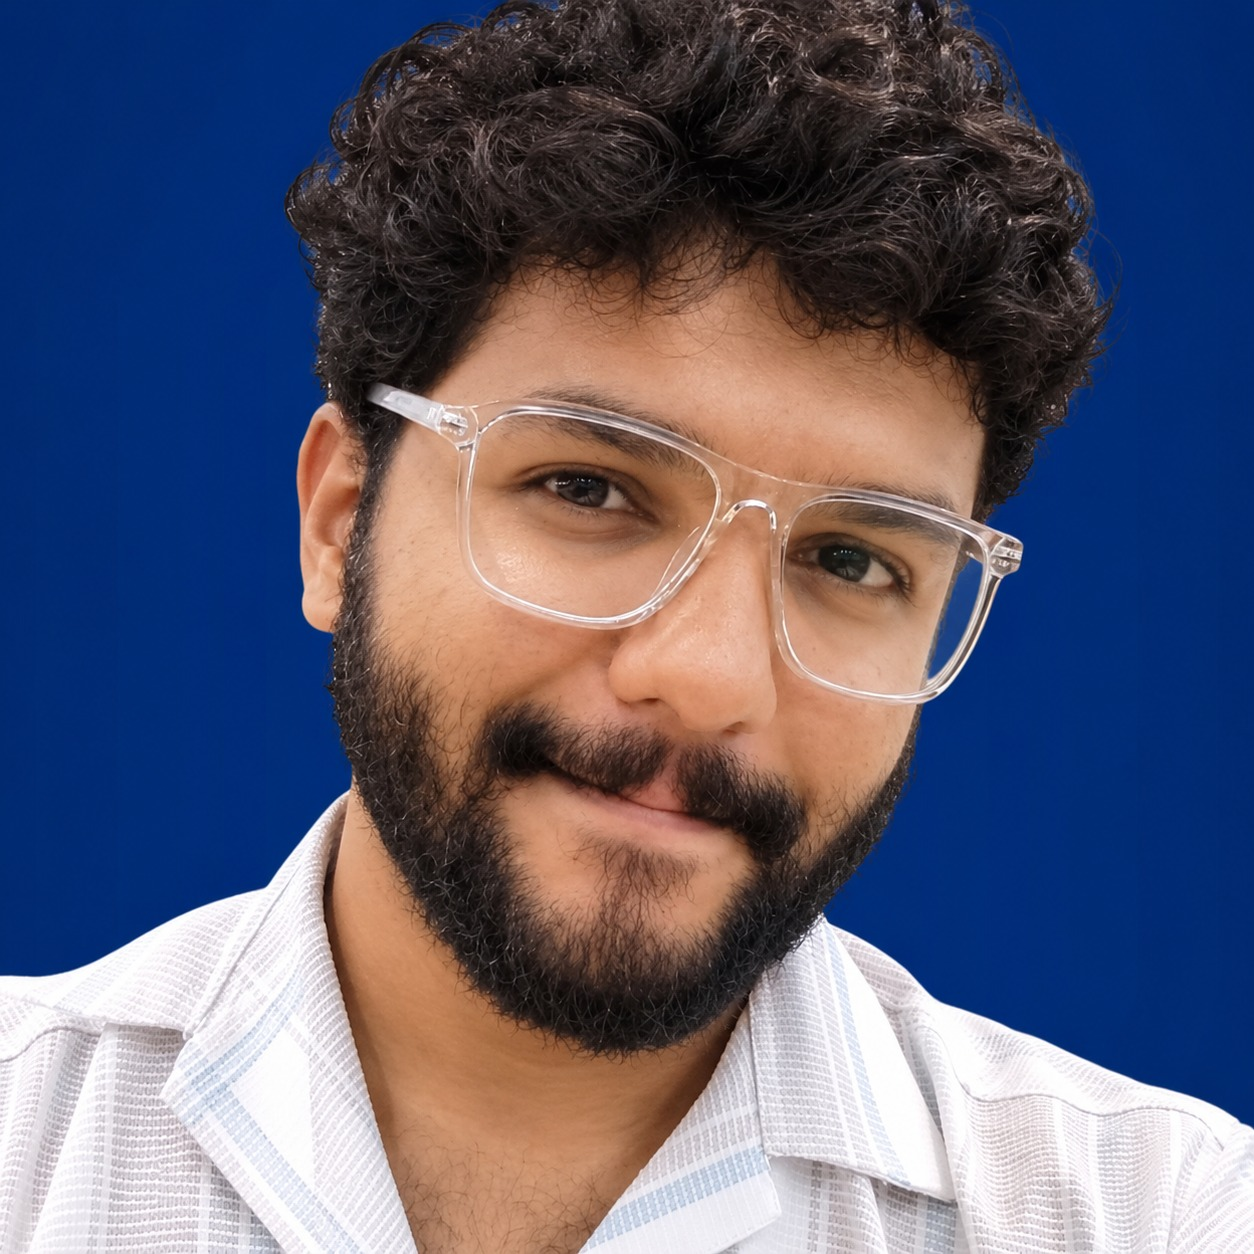
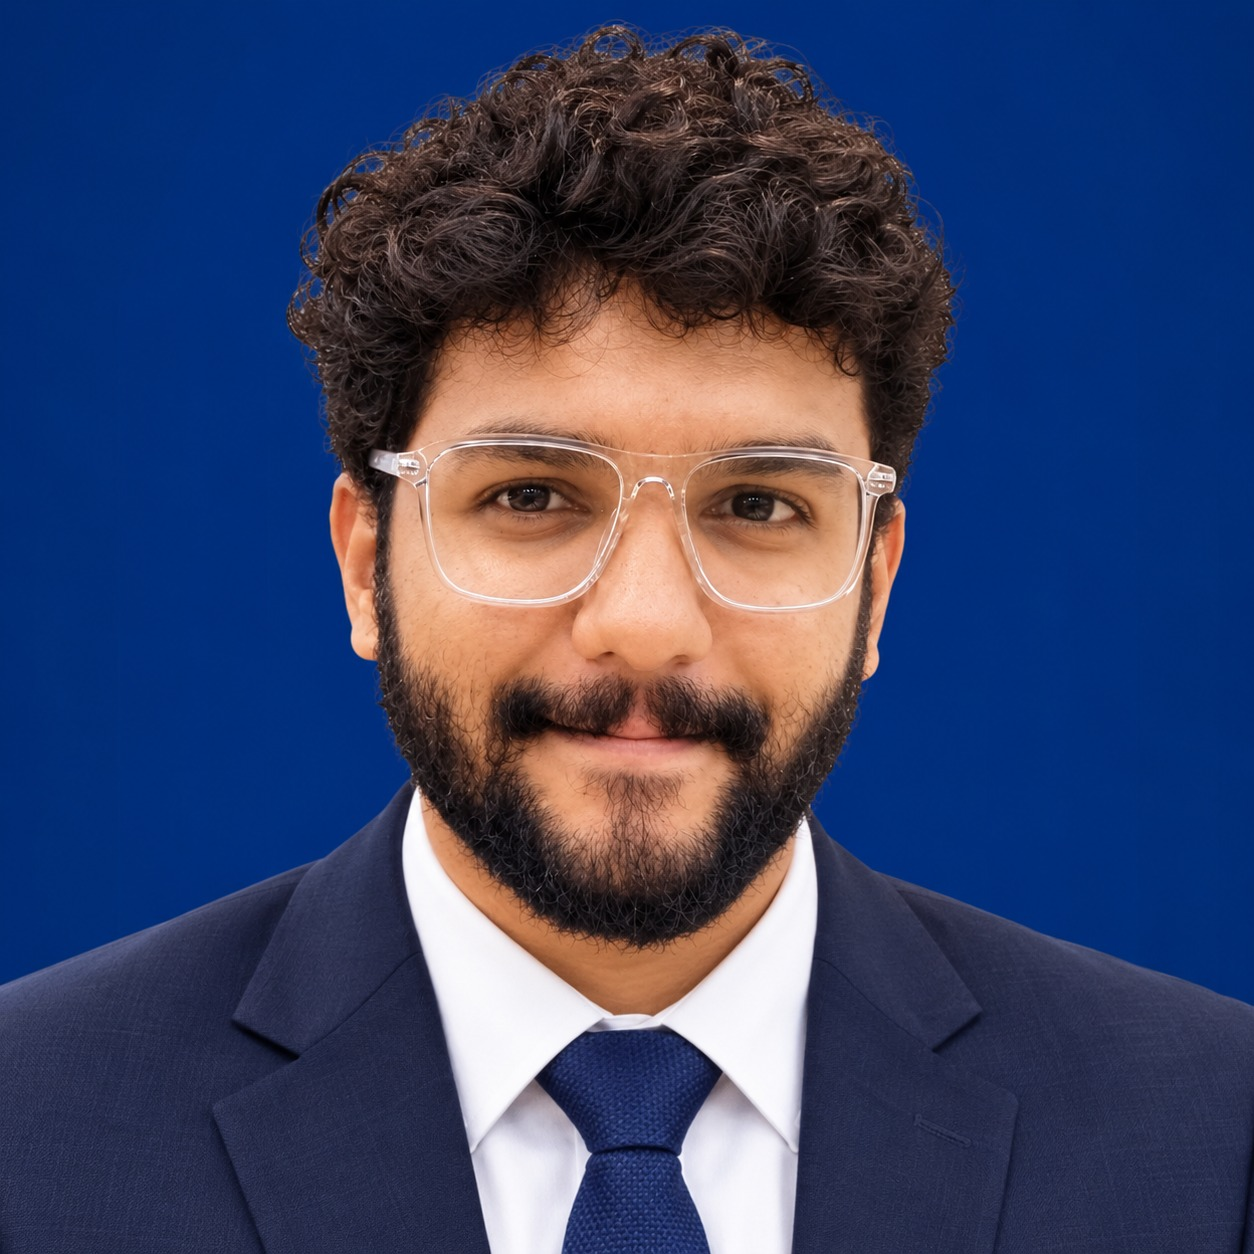
Add files via upload

diff --git a/directors.html b/directors.html
@@ -509,11 +509,11 @@ header{margin-top:0!important;top:0!important}
   </div>
 </div>
 <div class="director-card premium-card texture-paper rounded-2xl border border-gold/20 shadow-soft overflow-hidden reveal">
-  <img src="director-johan-josh-joy.jpg" alt="Johan Josh Joy" loading="lazy" class="director-card__photo"><span class="verified-badge" title="Verified director"><svg viewBox="0 0 24 24" fill="none" stroke="currentColor" stroke-width="3" stroke-linecap="round" stroke-linejoin="round"><path d="M5 13l4 4L19 7"/></svg><span data-en="Verified" data-ml="പരിശോധിച്ചു">Verified</span></span>
+  <img src="director-jayden-gejo.jpg" alt="Jayden Gejo" loading="lazy" class="director-card__photo"><span class="verified-badge" title="Verified director"><svg viewBox="0 0 24 24" fill="none" stroke="currentColor" stroke-width="3" stroke-linecap="round" stroke-linejoin="round"><path d="M5 13l4 4L19 7"/></svg><span data-en="Verified" data-ml="പരിശോധിച്ചു">Verified</span></span>
   <div class="p-4 sm:p-5">
     <div class="font-sans text-[9.5px] tracking-[0.16em] uppercase text-taupe font-semibold mb-1.5">Asia–Pacific Diocesan Coordinator</div>
-    <h4 class="font-serif font-normal text-[16px] sm:text-[17px] text-ink dark:text-ivory mb-2.5 leading-snug">Johan Josh Joy</h4>
-    <div class="flex flex-col gap-0.5 font-sans text-[10.5px] text-body/55 dark:text-ivory/45 leading-[1.5]"><span><span class="text-taupe font-semibold uppercase tracking-wide text-[9.5px]">Home Parish&nbsp;</span>Mallassery St. Mary’s Orthodox Church</span><span><span class="text-taupe font-semibold uppercase tracking-wide text-[9.5px]">Parish&nbsp;</span>Sydney St. Thomas Orthodox Cathedral</span></div>
+    <h4 class="font-serif font-normal text-[16px] sm:text-[17px] text-ink dark:text-ivory mb-2.5 leading-snug">Jayden Gejo</h4>
+    <div class="flex flex-col gap-0.5 font-sans text-[10.5px] text-body/55 dark:text-ivory/45 leading-[1.5]"><span><span class="text-taupe font-semibold uppercase tracking-wide text-[9.5px]">Home Parish&nbsp;</span>Karikkad St. Mary’s Orthodox Church</span><span><span class="text-taupe font-semibold uppercase tracking-wide text-[9.5px]">Parish&nbsp;</span>Melbourne St. Gregorios Orthodox Church (Clayton)</span></div>
   </div>
 </div>
 <div class="director-card premium-card texture-paper rounded-2xl border border-gold/20 shadow-soft overflow-hidden reveal">
@@ -849,6 +849,14 @@ header{margin-top:0!important;top:0!important}
   </div>
 </div>
 <div class="director-card premium-card texture-paper rounded-2xl border border-gold/20 shadow-soft overflow-hidden reveal">
+  <img src="director-abel-koshy-binsu.jpg" alt="Abel Koshy Binsu" loading="lazy" class="director-card__photo"><span class="verified-badge" title="Verified director"><svg viewBox="0 0 24 24" fill="none" stroke="currentColor" stroke-width="3" stroke-linecap="round" stroke-linejoin="round"><path d="M5 13l4 4L19 7"/></svg><span data-en="Verified" data-ml="പരിശോധിച്ചു">Verified</span></span>
+  <div class="p-4 sm:p-5">
+    <div class="font-sans text-[9.5px] tracking-[0.16em] uppercase text-taupe font-semibold mb-1.5">Kuwait Zonal Coordinator</div>
+    <h4 class="font-serif font-normal text-[16px] sm:text-[17px] text-ink dark:text-ivory mb-2.5 leading-snug">Abel Koshy Binsu</h4>
+    <div class="flex flex-col gap-0.5 font-sans text-[10.5px] text-body/55 dark:text-ivory/45 leading-[1.5]"><span><span class="text-taupe font-semibold uppercase tracking-wide text-[9.5px]">Diocese&nbsp;</span>Calcutta</span><span><span class="text-taupe font-semibold uppercase tracking-wide text-[9.5px]">Home Parish&nbsp;</span>Thumpamon St. Mary’s Orthodox Cathedral</span><span><span class="text-taupe font-semibold uppercase tracking-wide text-[9.5px]">Parish&nbsp;</span>Kuwait City St. Gregorios Orthodox Church</span></div>
+  </div>
+</div>
+<div class="director-card premium-card texture-paper rounded-2xl border border-gold/20 shadow-soft overflow-hidden reveal">
   <img src="director-ethan-koottumatha.jpg" alt="Ethan Koottumatha" loading="lazy" class="director-card__photo"><span class="verified-badge" title="Verified director"><svg viewBox="0 0 24 24" fill="none" stroke="currentColor" stroke-width="3" stroke-linecap="round" stroke-linejoin="round"><path d="M5 13l4 4L19 7"/></svg><span data-en="Verified" data-ml="പരിശോധിച്ചു">Verified</span></span>
   <div class="p-4 sm:p-5">
     <div class="font-sans text-[9.5px] tracking-[0.16em] uppercase text-taupe font-semibold mb-1.5">Long Island Zonal Coordinator</div>
@@ -878,14 +886,6 @@ header{margin-top:0!important;top:0!important}
     <div class="font-sans text-[9.5px] tracking-[0.16em] uppercase text-taupe font-semibold mb-1.5">Mamalassery Zonal Coordinator</div>
     <h4 class="font-serif font-normal text-[16px] sm:text-[17px] text-ink dark:text-ivory mb-2.5 leading-snug">Abshaalom Thomas Vadakkanedath</h4>
     <div class="flex flex-col gap-0.5 font-sans text-[10.5px] text-body/55 dark:text-ivory/45 leading-[1.5]"><span><span class="text-taupe font-semibold uppercase tracking-wide text-[9.5px]">Diocese&nbsp;</span>Kandanad East</span><span><span class="text-taupe font-semibold uppercase tracking-wide text-[9.5px]">Parish&nbsp;</span>Vettithara St. Michael Orthodox Church</span></div>
-  </div>
-</div>
-<div class="director-card premium-card texture-paper rounded-2xl border border-gold/20 shadow-soft overflow-hidden reveal">
-  <img src="director-jayden-gejo.jpg" alt="Jayden Gejo" loading="lazy" class="director-card__photo"><span class="verified-badge" title="Verified director"><svg viewBox="0 0 24 24" fill="none" stroke="currentColor" stroke-width="3" stroke-linecap="round" stroke-linejoin="round"><path d="M5 13l4 4L19 7"/></svg><span data-en="Verified" data-ml="പരിശോധിച്ചു">Verified</span></span>
-  <div class="p-4 sm:p-5">
-    <div class="font-sans text-[9.5px] tracking-[0.16em] uppercase text-taupe font-semibold mb-1.5">Melbourne Zonal Coordinator</div>
-    <h4 class="font-serif font-normal text-[16px] sm:text-[17px] text-ink dark:text-ivory mb-2.5 leading-snug">Jayden Gejo</h4>
-    <div class="flex flex-col gap-0.5 font-sans text-[10.5px] text-body/55 dark:text-ivory/45 leading-[1.5]"><span><span class="text-taupe font-semibold uppercase tracking-wide text-[9.5px]">Diocese&nbsp;</span>Asia–Pacific</span><span><span class="text-taupe font-semibold uppercase tracking-wide text-[9.5px]">Home Parish&nbsp;</span>Karikkad St. Mary’s Orthodox Church</span><span><span class="text-taupe font-semibold uppercase tracking-wide text-[9.5px]">Parish&nbsp;</span>Melbourne St. Gregorios Orthodox Church (Clayton)</span></div>
   </div>
 </div>
 <div class="director-card premium-card texture-paper rounded-2xl border border-gold/20 shadow-soft overflow-hidden reveal">
@@ -985,11 +985,27 @@ header{margin-top:0!important;top:0!important}
   </div>
 </div>
 <div class="director-card premium-card texture-paper rounded-2xl border border-gold/20 shadow-soft overflow-hidden reveal">
+  <img src="director-febi-george-varghese.jpg" alt="Febi George Varghese" loading="lazy" class="director-card__photo"><span class="verified-badge" title="Verified director"><svg viewBox="0 0 24 24" fill="none" stroke="currentColor" stroke-width="3" stroke-linecap="round" stroke-linejoin="round"><path d="M5 13l4 4L19 7"/></svg><span data-en="Verified" data-ml="പരിശോധിച്ചു">Verified</span></span>
+  <div class="p-4 sm:p-5">
+    <div class="font-sans text-[9.5px] tracking-[0.16em] uppercase text-taupe font-semibold mb-1.5">Thalavady Zonal Coordinator</div>
+    <h4 class="font-serif font-normal text-[16px] sm:text-[17px] text-ink dark:text-ivory mb-2.5 leading-snug">Febi George Varghese</h4>
+    <div class="flex flex-col gap-0.5 font-sans text-[10.5px] text-body/55 dark:text-ivory/45 leading-[1.5]"><span><span class="text-taupe font-semibold uppercase tracking-wide text-[9.5px]">Diocese&nbsp;</span>Niranam</span><span><span class="text-taupe font-semibold uppercase tracking-wide text-[9.5px]">Parish&nbsp;</span>Anaprambal St. George Orthodox Church</span></div>
+  </div>
+</div>
+<div class="director-card premium-card texture-paper rounded-2xl border border-gold/20 shadow-soft overflow-hidden reveal">
   <img src="director-johan-shinu.jpg" alt="Johan Shinu" loading="lazy" class="director-card__photo"><span class="verified-badge" title="Verified director"><svg viewBox="0 0 24 24" fill="none" stroke="currentColor" stroke-width="3" stroke-linecap="round" stroke-linejoin="round"><path d="M5 13l4 4L19 7"/></svg><span data-en="Verified" data-ml="പരിശോധിച്ചു">Verified</span></span>
   <div class="p-4 sm:p-5">
     <div class="font-sans text-[9.5px] tracking-[0.16em] uppercase text-taupe font-semibold mb-1.5">Trivandrum Zonal Coordinator</div>
     <h4 class="font-serif font-normal text-[16px] sm:text-[17px] text-ink dark:text-ivory mb-2.5 leading-snug">Johan Shinu</h4>
     <div class="flex flex-col gap-0.5 font-sans text-[10.5px] text-body/55 dark:text-ivory/45 leading-[1.5]"><span><span class="text-taupe font-semibold uppercase tracking-wide text-[9.5px]">Home Parish&nbsp;</span>Ambalathinnirappu St. George Orthodox Church</span><span><span class="text-taupe font-semibold uppercase tracking-wide text-[9.5px]">Parish&nbsp;</span>Kazhakuttom St. Mary’s and St. Jude Orthodox Church</span></div>
+  </div>
+</div>
+<div class="director-card premium-card texture-paper rounded-2xl border border-gold/20 shadow-soft overflow-hidden reveal">
+  <img src="director-aabel-sam-abraham.jpg" alt="Aabel Sam Abraham" loading="lazy" class="director-card__photo"><span class="verified-badge" title="Verified director"><svg viewBox="0 0 24 24" fill="none" stroke="currentColor" stroke-width="3" stroke-linecap="round" stroke-linejoin="round"><path d="M5 13l4 4L19 7"/></svg><span data-en="Verified" data-ml="പരിശോധിച്ചു">Verified</span></span>
+  <div class="p-4 sm:p-5">
+    <div class="font-sans text-[9.5px] tracking-[0.16em] uppercase text-taupe font-semibold mb-1.5">Vakathanam Zonal Coordinator</div>
+    <h4 class="font-serif font-normal text-[16px] sm:text-[17px] text-ink dark:text-ivory mb-2.5 leading-snug">Aabel Sam Abraham</h4>
+    <div class="flex flex-col gap-0.5 font-sans text-[10.5px] text-body/55 dark:text-ivory/45 leading-[1.5]"><span><span class="text-taupe font-semibold uppercase tracking-wide text-[9.5px]">Diocese&nbsp;</span>Kottayam</span><span><span class="text-taupe font-semibold uppercase tracking-wide text-[9.5px]">Parish&nbsp;</span>Vakathanam-Vettikunnel St. George Orthodox Church</span></div>
   </div>
 </div>
 <div class="director-card premium-card texture-paper rounded-2xl border border-gold/20 shadow-soft overflow-hidden reveal">
